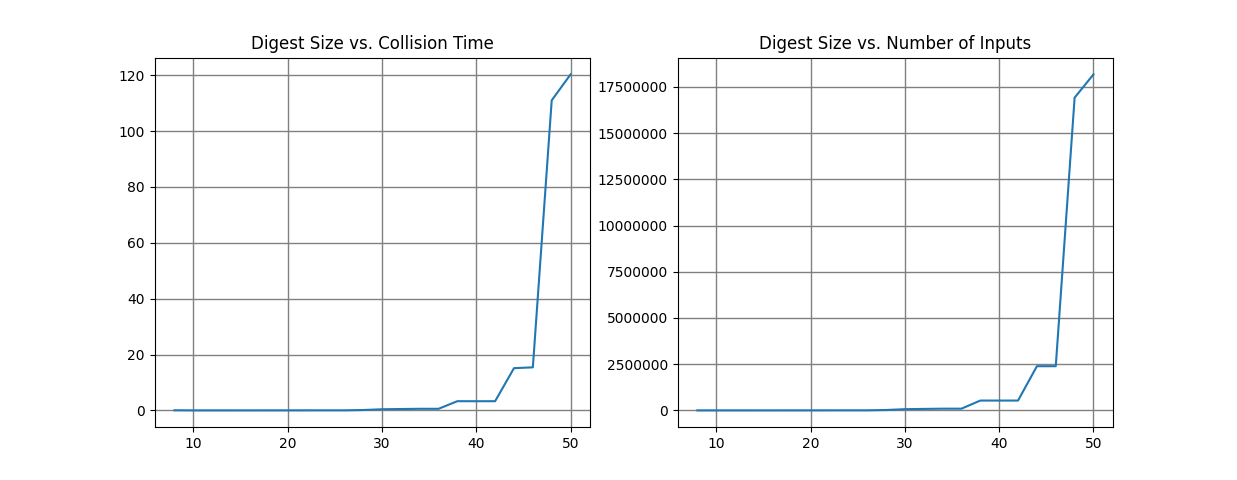
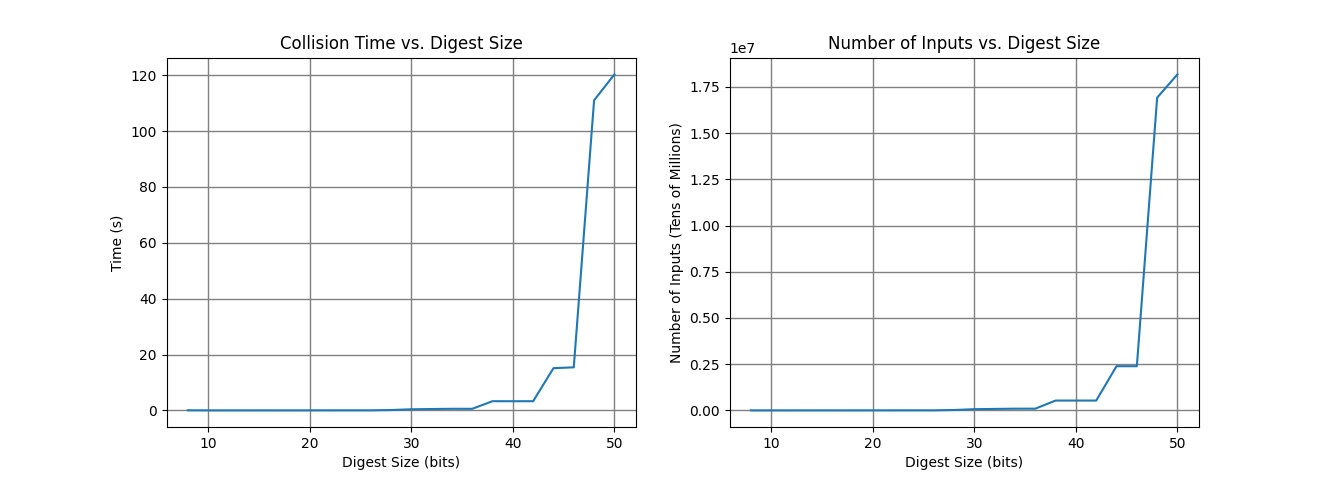
fixing task 1 graphs

diff --git a/CryptoHash/src/task1.py b/CryptoHash/src/task1.py
@@ -63,13 +63,17 @@ def task1_c():
 
     axis[0].grid(color='gray', linestyle='-', linewidth=1)
     axis[0].plot('Length', 'Time', data=df)
-    axis[0].set_title('Digest Size vs. Collision Time')
+    axis[0].set_title('Collision Time vs. Digest Size')
+    axis[0].set_xlabel('Digest Size (bits)')
+    axis[0].set_ylabel('Time (s)')
 
     axis[1].grid(color='gray', linestyle='-', linewidth=1)
     axis[1].plot('Length', 'NumChecked', data=df)
-    axis[1].set_title('Digest Size vs. Number of Inputs')
+    axis[1].set_title('Number of Inputs vs. Digest Size')
+    axis[1].set_xlabel('Digest Size (bits)')
+    axis[1].set_ylabel('Number of Inputs (Tens of Millions)')
 
-    plt.ticklabel_format(style='plain', useOffset=False)
+    plt.ticklabel_format(useOffset=False)
     plt.show()
 
 if __name__ == "__main__":
